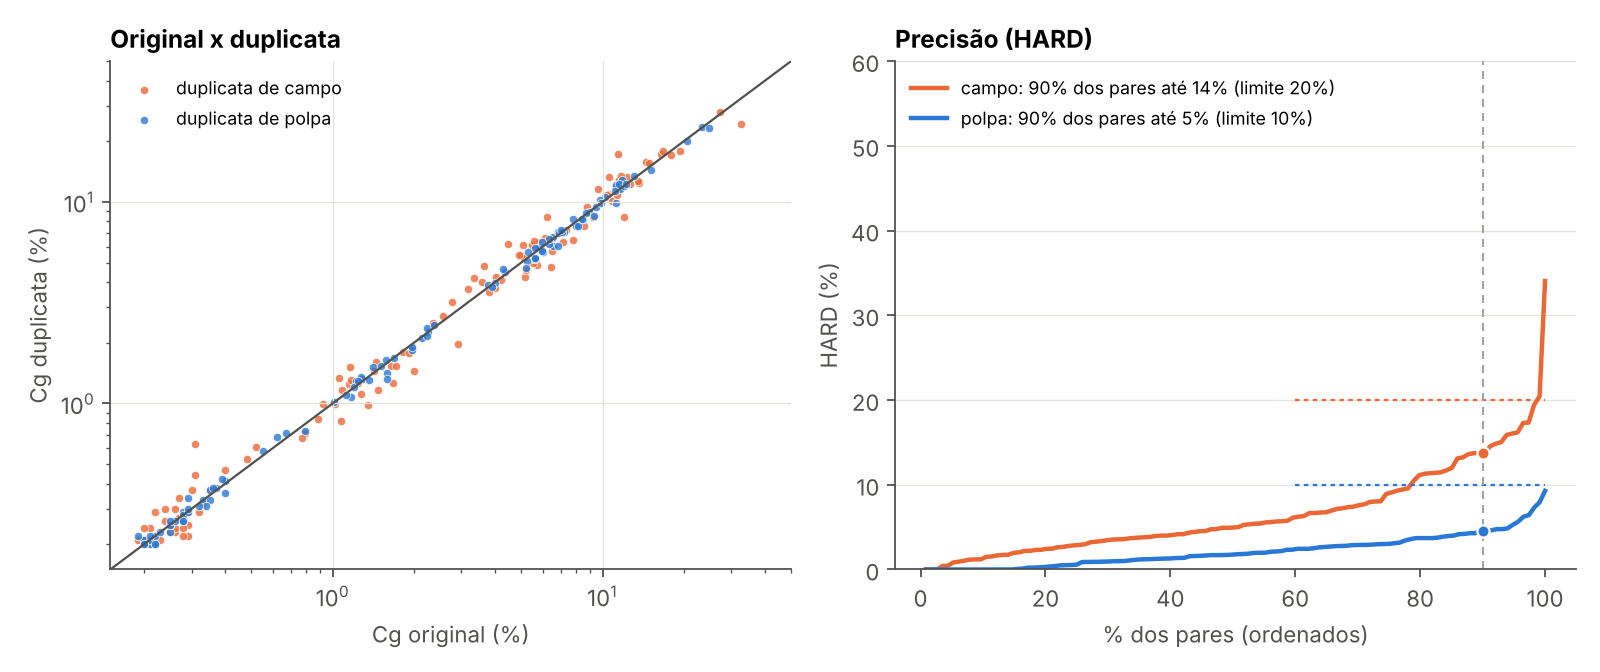
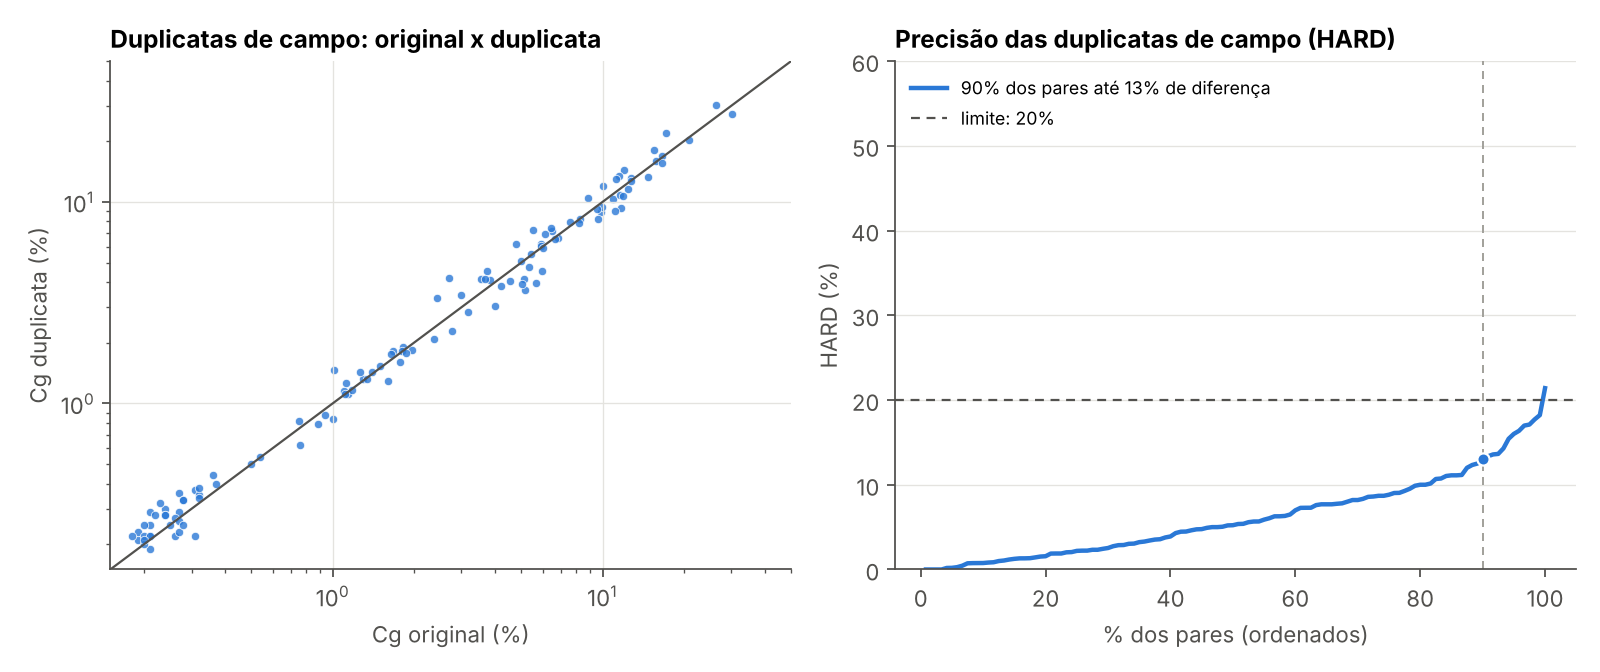
Projeto 3: só duplicatas de campo

diff --git a/index.html b/index.html
@@ -364,11 +364,11 @@ print(log)
       <span class="label">Projeto 3 · Python + SQL · geologia · QA/QC de sondagem</span>
       <h3>Esses teores são confiáveis? QA/QC e validação de um banco de sondagem</h3>
       <p class="question">Os teores de grafita de um banco de sondagem estão prontos para uma estimativa de recurso? Se não estiverem, quais lotes voltam ao laboratório e quais resultados ficam em espera?</p>
-      <p class="note">A rotina que eu fazia como analista de dados geológicos, em um projeto de grafita simulado (bancos reais de empresas são confidenciais): 40 furos, 7.630 m, 7.630 amostras de rotina e 1.325 amostras de controle em 43 lotes, no formato usual de collar, survey, litologia, amostragem e laudo com carbono grafítico (Cg) e carbono total (CT), com os problemas que aparecem na prática.</p>
+      <p class="note">A rotina que eu fazia como analista de dados geológicos na exploração de grafita, aqui num projeto simulado (bancos reais de empresas são confidenciais): 40 furos, 7.630 m, 7.630 amostras de rotina e 1.017 amostras de controle em 43 lotes, no formato usual de collar, survey, litologia, amostragem e laudo com carbono grafítico (Cg) e carbono total (CT), com os problemas que aparecem na prática.</p>
     </div>
     <div class="steps">
       <div class="step"><span class="label">1 · Validar o banco</span><p>Coordenadas, collar x survey, sobreposições e lacunas de intervalo, códigos de litologia, unidades, Cg maior que o carbono total e amostras enviadas x devolvidas. Cada problema vai para um log como corrigido ou revisar.</p></div>
-      <div class="step"><span class="label">2 · QA/QC</span><p>Cartas de controle dos padrões certificados (±2 e ±3 DP, viés por lote), brancos acima de 10 × LD e precisão das duplicatas de campo e de polpa (HARD).</p></div>
+      <div class="step"><span class="label">2 · QA/QC</span><p>Cartas de controle dos padrões certificados (±2 e ±3 DP, viés por lote), brancos acima de 10 × LD e precisão das duplicatas de campo (HARD).</p></div>
       <div class="step"><span class="label">3 · Impacto em SQL</span><p>Interceptos significativos com a técnica gaps and islands, ranking de furos com RANK e lista de pendências por furo para a equipe de geologia.</p></div>
     </div>
     <div style="overflow-x:auto">
@@ -376,10 +376,10 @@ print(log)
       <thead><tr><th>Verificação</th><th>Resultado</th></tr></thead>
       <tbody>
         <tr><td>Problemas no banco (ex.: este/norte trocados, teor em ppm no lugar de %, Cg maior que CT, furo “FD-40” inexistente)</td><td>25 · 12 corrigidos e 13 para revisar</td></tr>
-        <tr><td>Lotes reprovados no QA/QC</td><td>8 de 43</td></tr>
-        <tr><td>Amostras mineralizadas (≥ 3% Cg) nesses lotes</td><td>20,5%</td></tr>
-        <tr><td>Interceptos significativos que ficam provisórios (incluindo os 2 melhores furos)</td><td>10 de 44</td></tr>
-        <tr><td>Precisão das duplicatas: polpa · campo</td><td>aprovada · aprovada</td></tr>
+        <tr><td>Lotes reprovados no QA/QC</td><td>7 de 43</td></tr>
+        <tr><td>Amostras mineralizadas (≥ 3% Cg) nesses lotes</td><td>18,7%</td></tr>
+        <tr><td>Interceptos significativos que ficam provisórios (incluindo os 2 melhores furos)</td><td>9 de 43</td></tr>
+        <tr><td>Precisão das duplicatas de campo</td><td>aprovada (99% dos pares no limite)</td></tr>
       </tbody>
     </table>
     </div>
@@ -387,13 +387,13 @@ print(log)
     <div class="read" style="display:grid;gap:.75rem">
       <span class="label">O que os dados mostram</span>
       <ul class="insights">
-        <li><b>Deriva do laboratório</b> nos lotes L021 a L024: os três padrões sobem juntos (média de +1,6 a +2,0 DP). Poucos pontos passam de 3 DP, mas a sequência mostra o viés.</li>
+        <li><b>Deriva do laboratório</b> nos lotes L021 a L024: os três padrões sobem juntos (média de +1,7 a +2,4 DP). Como o desvio aparece nos três teores ao mesmo tempo, o problema é do laboratório, e não de um padrão.</li>
         <li>Um padrão “fora” no L010 era o <b>padrão errado no envio</b> (valor do PAD-ALTO numa etiqueta de PAD-MEDIO). Corrige-se o cadastro e o lote não é reanalisado à toa.</li>
         <li>Os brancos só contaminaram <b>logo depois de amostras de grafita maciça</b>: a grafita gruda no pulverizador e arrasta para a amostra seguinte. A solução é limpar com quartzo após alto teor.</li>
         <li>Três amostras vieram com <b>carbono grafítico maior que o carbono total</b>, o que é impossível: provável troca de colunas no laudo. Os interceptos com essas amostras ficam provisórios até o laboratório confirmar.</li>
       </ul>
     </div>
-    <figure><figcaption><b>Precisão das duplicatas</b><span>original x duplicata e curva HARD</span></figcaption><img src="img/qaqc-duplicatas.png" alt="Dispersão original x duplicata e curva HARD das duplicatas de campo e de polpa" loading="lazy" style="width:100%;height:auto;border-radius:6px;background:#fff"></figure>
+    <figure><figcaption><b>Precisão das duplicatas de campo</b><span>original x duplicata e curva HARD</span></figcaption><img src="img/qaqc-duplicatas.png" alt="Dispersão original x duplicata e curva HARD das duplicatas de campo" loading="lazy" style="width:100%;height:auto;border-radius:6px;background:#fff"></figure>
     <span class="label">Código · <a href="https://github.com/leticiacerqueira/qaqc-sondagem" target="_blank" rel="noopener">ver o repositório no GitHub</a></span>
   </article>
 
